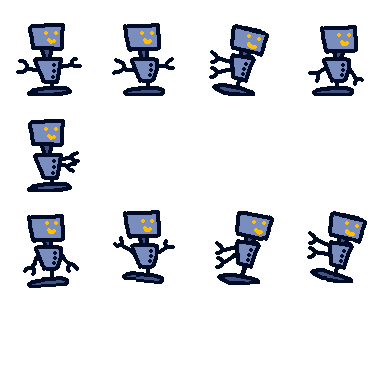
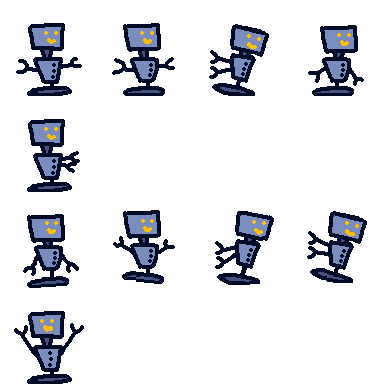
Player unlock animation

Changed region(s): [[0.0312, 0.8125, 0.2188, 1.0]]

diff --git a/src/player.js b/src/player.js
@@ -49,6 +49,7 @@ export default class Player extends Thing {
       frameSize: 96
     },
     grab: { frames: [4], speed: 0, frameSize: 96 },
+    unlock: { frames: [12], speed: 0, frameSize: 96 },
   }
   aabb = [-0.25, -0.25, 0.25, 1]
   jumpBuffer = 0
@@ -79,6 +80,7 @@ export default class Player extends Thing {
   wateringDeviceCooldowns = [0, 0, 0]
   placementPositionIndicatorScale = 1
   pickup = null // The thing you're currently picking up
+  unlockAnimationItemImage = null
 
   constructor () {
     super()
@@ -86,6 +88,13 @@ export default class Player extends Thing {
   }
 
   update () {
+    if (this.getTimer('unlock')) {
+      this.animation = 'unlock'
+      this.updateTimers()
+      this.animate()
+      return
+    }
+
     // If trapped inside something solid, like when getting pushed by
     // a hedge or something, try to get unstuck
     this.getUnstuck()
@@ -305,6 +314,10 @@ export default class Player extends Thing {
       this.useTool(game.keysPressed.KeyA || game.buttonsPressed[2])
     }
 
+    if (game.keysPressed.KeyU) {
+      this.unlockTool('wateringCan')
+    }
+
     if (onGround && this.getSelectedTool().includes('seedPacket')) {
       this.placementPositionIndicatorScale = Math.min(this.placementPositionIndicatorScale + 0.2, 1.3)
     }
@@ -469,6 +482,19 @@ export default class Player extends Thing {
     }
 
     // TODO: Play ITEM GET animation and sound
+
+    this.unlockAnimationItemImage = tool
+    const wasPaused = new WeakMap()
+    game.getThings().forEach(thing => {
+      wasPaused.set(thing, thing.isPaused)
+      thing.isPaused = thing !== this
+    })
+    this.setTimer('unlock', 200, () => {
+      game.getThings().forEach(thing => {
+        if (thing === this) { return }
+        thing.isPaused = wasPaused.get(thing)
+      })
+    })
   }
 
   getToolCategories () {
@@ -596,10 +622,55 @@ export default class Player extends Thing {
 
   draw () {
     const { ctx } = game
+
+    if (this.getTimer('unlock')) {
+      ctx.save()
+      ctx.fillStyle = '#000B28'
+      ctx.globalAlpha = 0.5
+      const camera = game.getCamera2D()
+      ctx.translate(...camera.position)
+      ctx.translate(game.getWidth() * -0.5, game.getHeight() * -0.5)
+      ctx.fillRect(0, 0, game.getWidth(), game.getHeight())
+      ctx.restore()
+    }
+
+
     // Move the sprite down a bit when it's being squashed, so it
     // looks like it's taking off from the ground when the player
     // jumps
     this.drawSprite(...this.position, 0, u.map(this.squash[1], 1, 0.5, 0, 32, true))
+
+    if (this.getTimer('unlock')) {
+      ctx.save()
+      ctx.translate(
+        this.position[0],
+        this.position[1] - 1.25
+      )
+      ctx.fillStyle = 'yellow'
+      ctx.globalAlpha = 0.5
+      ctx.beginPath()
+      ctx.arc(0, 0, u.map(Math.sin(this.getTimer('unlock') * 14), -1, 1, 0.7, 0.85), 0, Math.PI * 2)
+      ctx.fill()
+      ctx.globalAlpha = 1
+      ctx.scale(1 / 48, 1 / 48)
+      this.drawSpriteFrame(this.unlockAnimationItemImage, 0, 64)
+      ctx.restore()
+
+
+      ctx.save()
+      ctx.translate(
+        this.position[0],
+        this.position[1] - 3
+      )
+      ctx.scale(1 / 48, 1 / 48)
+      ctx.textAlign = 'center'
+      ctx.font = 'italic bold 64px Arial'
+      ctx.fillStyle = '#000B28'
+      ctx.fillText(`You unlocked ${this.unlockAnimationName}!`, 4, 4)
+      ctx.fillStyle = 'yellow'
+      ctx.fillText(`You unlocked ${this.unlockAnimationName}!`, 0, 0)
+      ctx.restore()
+    }
 
     // Selection box for planting seeds
     this.updatePlacementPositionVisual()

diff --git a/src/shop.js b/src/shop.js
@@ -50,17 +50,20 @@ class ShopMenu extends Thing {
     {
       name: 'Watering Can',
       price: 10,
-      description: 'Waters stuff'
+      description: 'Waters stuff',
+      image: 'wateringCan'
     },
     {
       name: 'Apple Seeds',
       price: 20,
-      description: 'Grows apples!'
+      description: 'Grows apples!',
+      image: 'apple'
     },
     {
       name: 'Pear Seeds',
       price: 40,
-      description: 'Grows pears!'
+      description: 'Grows pears!',
+      image: 'apple'
     }
   ]
 
@@ -103,7 +106,6 @@ class ShopMenu extends Thing {
 
     const size = 180
     ctx.save()
-    ctx.fillStyle = 'black'
     ctx.strokeStyle = 'white'
     ctx.lineWidth = 4
     ctx.translate(game.getWidth() / 2, game.getHeight() / 2)
@@ -111,7 +113,9 @@ class ShopMenu extends Thing {
       const a = (this.selectionAnim - i) * Math.PI * 2 / 10 + Math.PI * 0.5
       const shopItem = this.items[i % this.items.length]
 
-      ctx.globalAlpha = u.map(Math.sin(a), -0.25, 0.25, 0, 1, true)
+      const alpha = u.map(Math.sin(a), -0.25, 0.25, 0, 1, true)
+      if (alpha <= 0) { continue }
+      ctx.globalAlpha = alpha
 
       ctx.globalAlpha *= (
         shopItem.price > game.getThing('player').money
@@ -124,8 +128,15 @@ class ShopMenu extends Thing {
       ctx.translate(Math.cos(a) * 500, Math.sin(a) * 100 - 50)
       ctx.scale(scale, scale)
       ctx.beginPath()
+      ctx.fillStyle = '#888'
       ctx.fillRect(-size / 2, -size / 2, size, size)
       ctx.rect(-size / 2, -size / 2, size, size)
+      ctx.save()
+      const img = game.assets.images[shopItem.image]
+      ctx.scale(2, 2)
+      ctx.translate(img.width / -2, img.height / -2)
+      ctx.drawImage(img, 0, 0)
+      ctx.restore()
       ctx.stroke()
 
       ctx.save()

diff --git a/src/main.js b/src/main.js
@@ -53,7 +53,6 @@ game.assets.images = await game.loadImages({
   hedgeBottomMarkRight: 'images/hedgeBottomMarkRight.png',
   hedgeBottomMarkLeft: 'images/hedgeBottomMarkLeft.png',
   caveBackground: 'images/cavebackground1.png',
-  apple: 'images/apple.png',
   dustParticle: 'images/dust.png',
   sprinkler: 'images/sprinkler.png',
   ash: 'images/ash.png',
